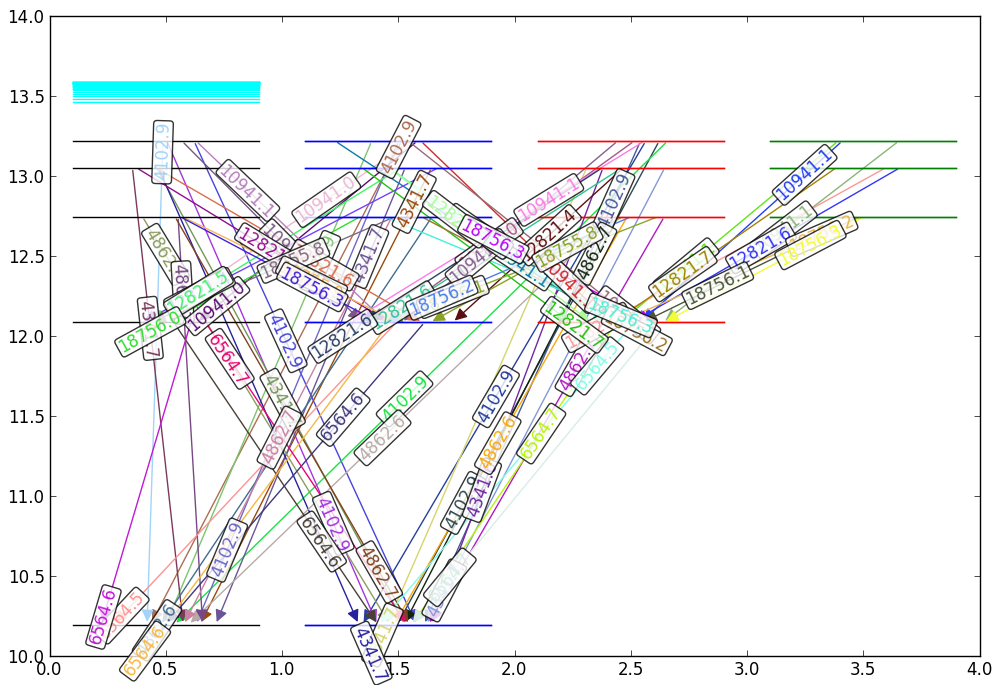
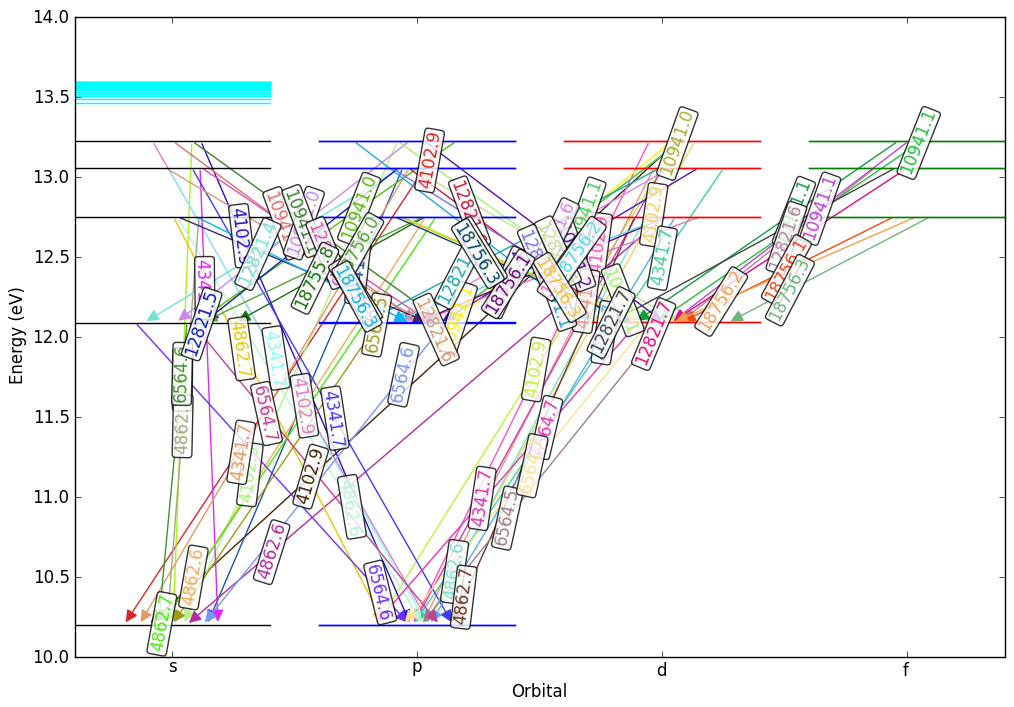
angle fixes, major update to NIST_example with cool wrapper script

diff --git a/examples/NIST_Example.py b/examples/NIST_Example.py
@@ -1,30 +1,89 @@
 import astroquery.nist
 import energyleveldiagrams
-import pylab
+import pylab as pl
+import numpy as np
 
-def nist_grotrian(minwav,maxwav,savefile=None):
+def nist_grotrian(minwav,maxwav,**kwargs):
     Q = astroquery.nist.NISTAtomicLinesQuery()
     NIST_Table = Q.query_line_html('H I',minwav,maxwav,wavelength_unit='A',energy_level_unit='eV')
 
+    return plot_nist_grotrian(NIST_Table, **kwargs)
+
+def plot_nist_grotrian(NIST_Table, savefile=None,
+        connection='RitzWavelengthVac', lowerSelect='', upperSelect='',
+        merge_fine=sum, color='rand', vformat="%6.1f"):
+
     H = energyleveldiagrams.EnergyLevelDiagram()
+    H.axis.set_xticks([0.5,1.5,2.5,3.5])
+    H.axis.set_xticklabels(['s','p','d','f'])
+
+    if merge_fine is not None:
+        unique_lines = np.unique([a+","+b for a,b in zip(NIST_Table['Lower LevelConf.'],NIST_Table['Upper LevelConf.'])])
+        level_values = dict([(ln,[]) for ln in unique_lines if lowerSelect in ln and upperSelect in ln])
 
     for line in NIST_Table:
         if len(line['Lower LevelConf.']) > 1: 
-            lower_name = line['Lower LevelConf.']+line['LowerTerm']+line['LowerJ']
+            if merge_fine:
+                lower_name = line['Lower LevelConf.']
+            else:
+                lower_name = line['Lower LevelConf.']+line['LowerTerm']+line['LowerJ']
             H.add_level(line['EieV'],line['Lower LevelConf.'][1],name=lower_name)
+        else:
+            lower_name = ''
         if len(line['Upper LevelConf.']) > 1: 
-            upper_name = line['Upper LevelConf.']+line['UpperTerm']+line['UpperJ']
+            if merge_fine:
+                upper_name = line['Upper LevelConf.']
+            else:
+                upper_name = line['Upper LevelConf.']+line['UpperTerm']+line['UpperJ']
             H.add_level(line['EkeV'],line['Upper LevelConf.'][1],name=upper_name)
-        if 'nan' not in upper_name and 'nan' not in lower_name:
-            H.connect_levels(upper_name,lower_name, value="%6.1f" % line['RitzWavelengthVac'],color='rand')
+        else:
+            upper_name = ''
+        if upperSelect is not None and upperSelect not in upper_name:
+            #print "upper skip ",lower_name,upperSelect," not in ",upper_name,
+            continue
+        if lowerSelect is not None and lowerSelect not in lower_name:
+            #print "lower skip ",lowerSelect," not in ",lower_name,upper_name,
+            continue
+        if upper_name == "" or lower_name == "":
+            continue
+        if merge_fine is None:
+            if 'nan' not in upper_name and 'nan' not in lower_name:
+                H.connect_levels(upper_name,lower_name, value=vformat % line[connection],color=color)
+        else:
+            level_values[(lower_name+","+upper_name)].append(line[connection])
+
+    if merge_fine:
+        for name,vlist in level_values.iteritems():
+            lower_name, upper_name = name.split(",")
+            #print name,lower_name,upper_name,merge_fine(vlist),vlist
+            if lower_name == 'na' or upper_name == 'na' or len(lower_name)<2 or len(upper_name)<2:
+                continue
+            value = merge_fine(vlist)
+            H.connect_levels(upper_name,lower_name, value=vformat % value,color=color)
 
     H.plot_levels()
     #H._repair_text_angles()
+    pl.xlabel("Orbital")
+    pl.ylabel("Energy (eV)")
 
     if savefile is not None:
-        pylab.savefig(savefile,bbox_inches='tight')
+        pl.savefig(savefile,bbox_inches='tight')
+
+    return NIST_Table
 
 
 if __name__ == "__main__":
-    nist_grotrian(6000,7000,'Halpha_Grotrian.png')
-    nist_grotrian(4000,19000,'H234_Grotrian.png')
+    NTlow = nist_grotrian(6000,7000,savefile='Halpha_Grotrian.png',merge_fine=None)
+    pl.title('Halpha_Grotrian')
+    NThigh = nist_grotrian(4000,19000,savefile='H234_Grotrian.png',merge_fine=None)
+    pl.title('H234_Grotrian')
+    plot_nist_grotrian(NThigh,savefile='H234_Grotrian_avals.png',vformat="%0.1e",connection='Akis-1')
+    pl.title('H234_Grotrian_avals')
+    plot_nist_grotrian(NThigh,savefile='H234_Grotrian_only2p.png',vformat="%0.1e",connection='Akis-1',lowerSelect='2p',color='k')
+    pl.title('H234_Grotrian_only2p_avals')
+    plot_nist_grotrian(NThigh,savefile='H234_Grotrian_only3s.png',vformat="%0.1e",connection='Akis-1',lowerSelect='3s',color='k')
+    pl.title('H234_Grotrian_only3s_avals')
+    plot_nist_grotrian(NThigh,savefile='H234_Grotrian_only3p.png',vformat="%0.1e",connection='Akis-1',lowerSelect='3p',color='k')
+    pl.title('H234_Grotrian_only3p_avals')
+    plot_nist_grotrian(NThigh,savefile='H234_Grotrian_only3d.png',vformat="%0.1e",connection='Akis-1',lowerSelect='3d',color='k')
+    pl.title('H234_Grotrian_only3d_avals')
